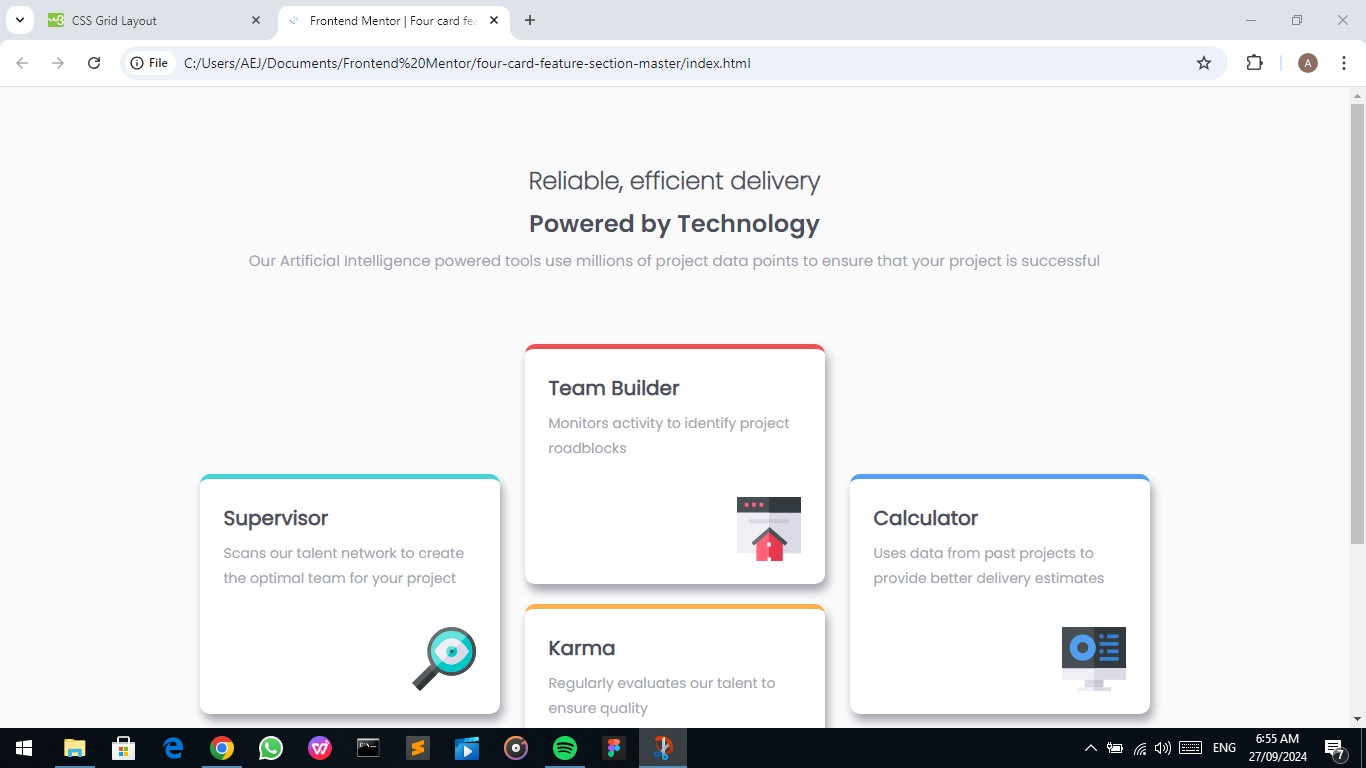
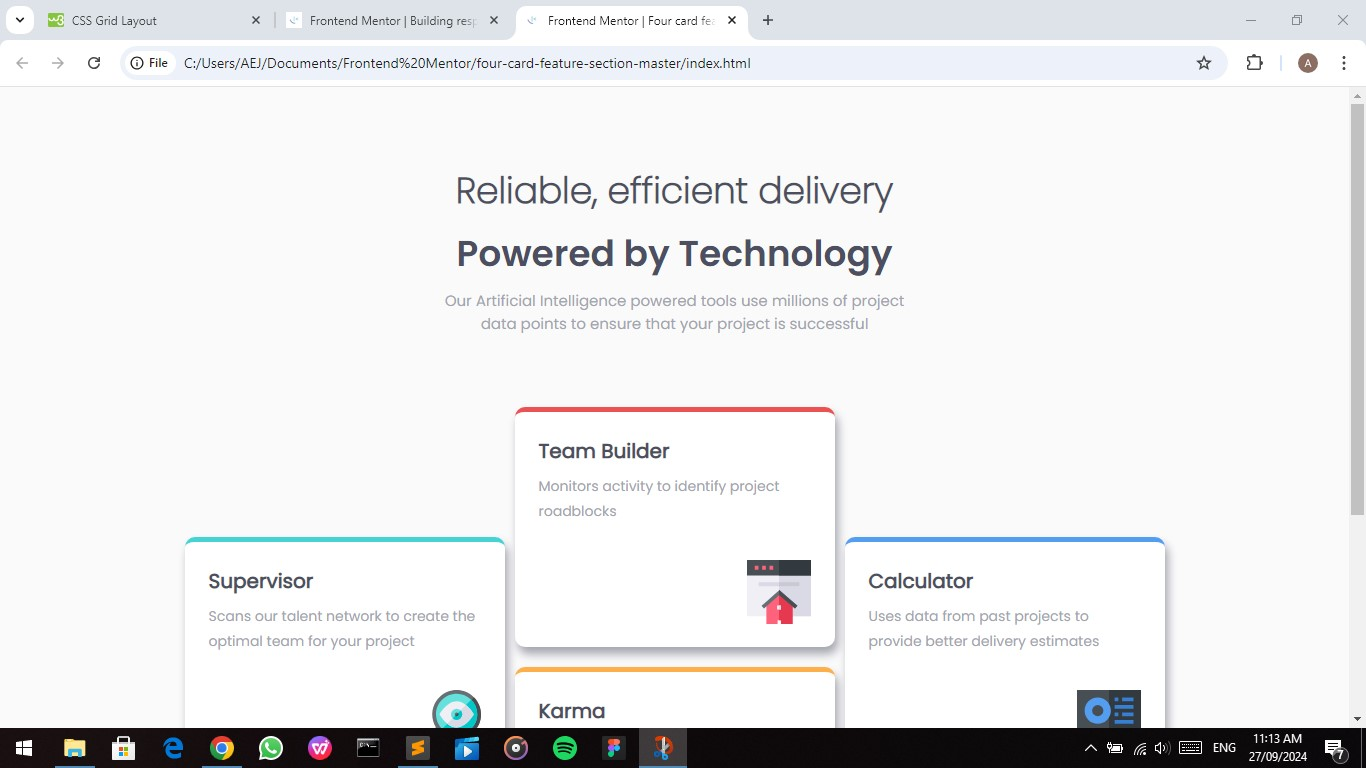
Little changes

diff --git a/assets/styles.css b/assets/styles.css
@@ -38,22 +38,14 @@
   	height: auto;
   	background: var(--v-l-gray);
   }
-  main {
-    width: 100%;
-    height: auto;
-    padding: 28px;
-  }
+  main { width: 100%; height: auto; padding: 28px; }
   header {
   	width: 100%;
   	height: auto;
   	padding: 48px 2px 24px;
   	text-align: center;
   }
-  h1, h2 {
-  	margin-bottom: 8px;
-  	font-size: 24px;
-  	color: var(--v-d-blue);
-  }
+  h1, h2 { margin-bottom: 8px; font-size: 24px; color: var(--v-d-blue); }
   h1 { font-family: Poppins-200; }
   h2 { font-family: Poppins-600; }
   section { margin: 48px auto; }
@@ -72,11 +64,7 @@
   .team { border-top: 5px solid var(--red); }
   .karma { border-top: 5px solid var(--orange); }
   .calculator { border-top: 5px solid var(--blue); }
-  h3 {
-  	margin-bottom: 8px;
-  	font-size: 20px;
-  	color: var(--v-d-blue);
-  }
+  h3 { margin-bottom: 8px; font-size: 20px; color: var(--v-d-blue); }
   .tools p { font-size: 14px; line-height: 1.8; }
   img {
   	margin-top: 36px;
@@ -99,15 +87,14 @@
 
 /* desktop styles */
 @media screen and (min-width: 901px) {
+  header p { margin: 0 auto; width: 50ch; }
+  h1, h2 { font-size: 36px; }
   section {
   	max-width: 1000px;
   	display: flex;
   	justify-content: space-between;
   	align-items: center;
   }
-  .items {
-  	width: 32%;
-  	max-width: 300px;
-  }
+  .items { width: 32%; max-width: 400px; }
   footer, footer a { font-size: 14px; }
 }

diff --git a/index.html b/index.html
@@ -20,27 +20,27 @@
       <div class="items tools supervisor">
         <h3>Supervisor</h3>
         <p>Scans our talent network to create the optimal team for your project</p>
-        <img src="assets/images/icon-supervisor.svg">
+        <img src="assets/images/icon-supervisor.svg" alt="icon">
       </div>
 
       <div class="items">
         <div class="tools team">
           <h3>Team Builder</h3>
           <p>Monitors activity to identify project roadblocks</p>
-          <img src="assets/images/icon-team-builder.svg">
+          <img src="assets/images/icon-team-builder.svg" alt="icon">
         </div>
 
         <div class="tools karma">
           <h3>Karma</h3>
           <p>Regularly evaluates our talent to ensure quality</p>
-          <img src="assets/images/icon-karma.svg">
+          <img src="assets/images/icon-karma.svg" alt="icon">
         </div>
       </div>
 
       <div class="items tools calculator">
         <h3>Calculator</h3>
         <p>Uses data from past projects to provide better delivery estimates</p>
-        <img src="assets/images/icon-calculator.svg">
+        <img src="assets/images/icon-calculator.svg" alt="icon">
       </div>
     </section>
   </main>
